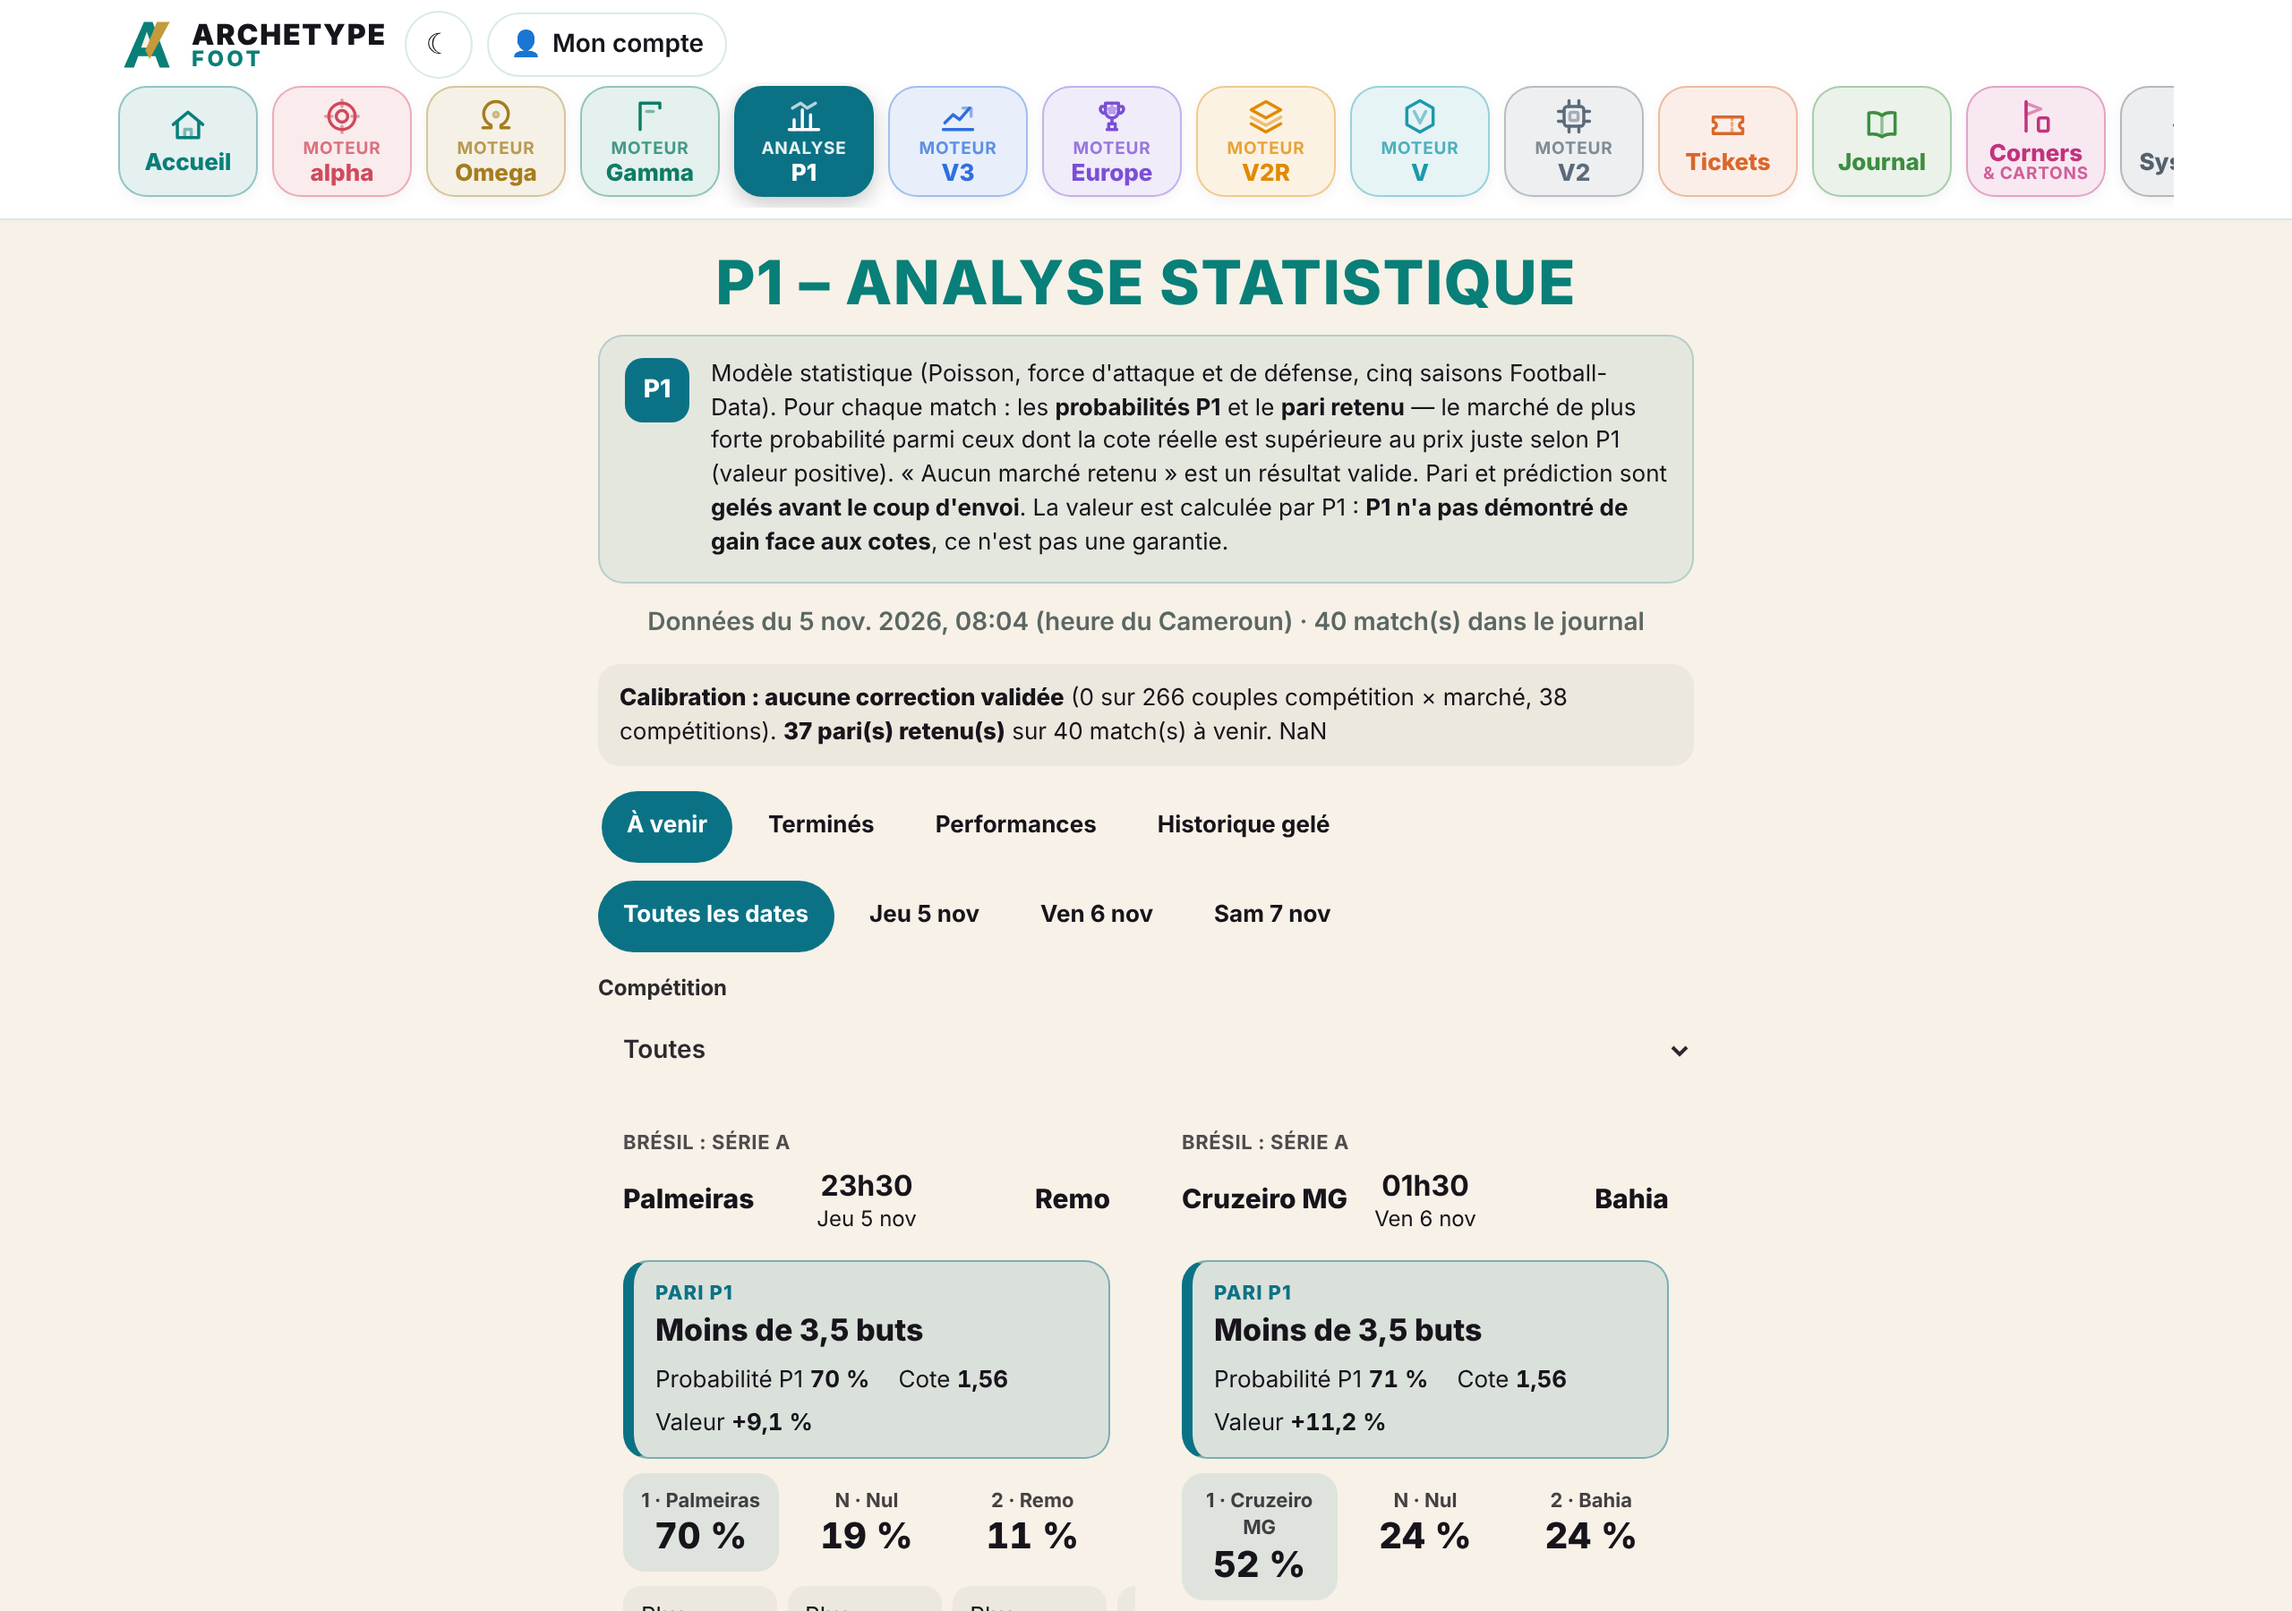
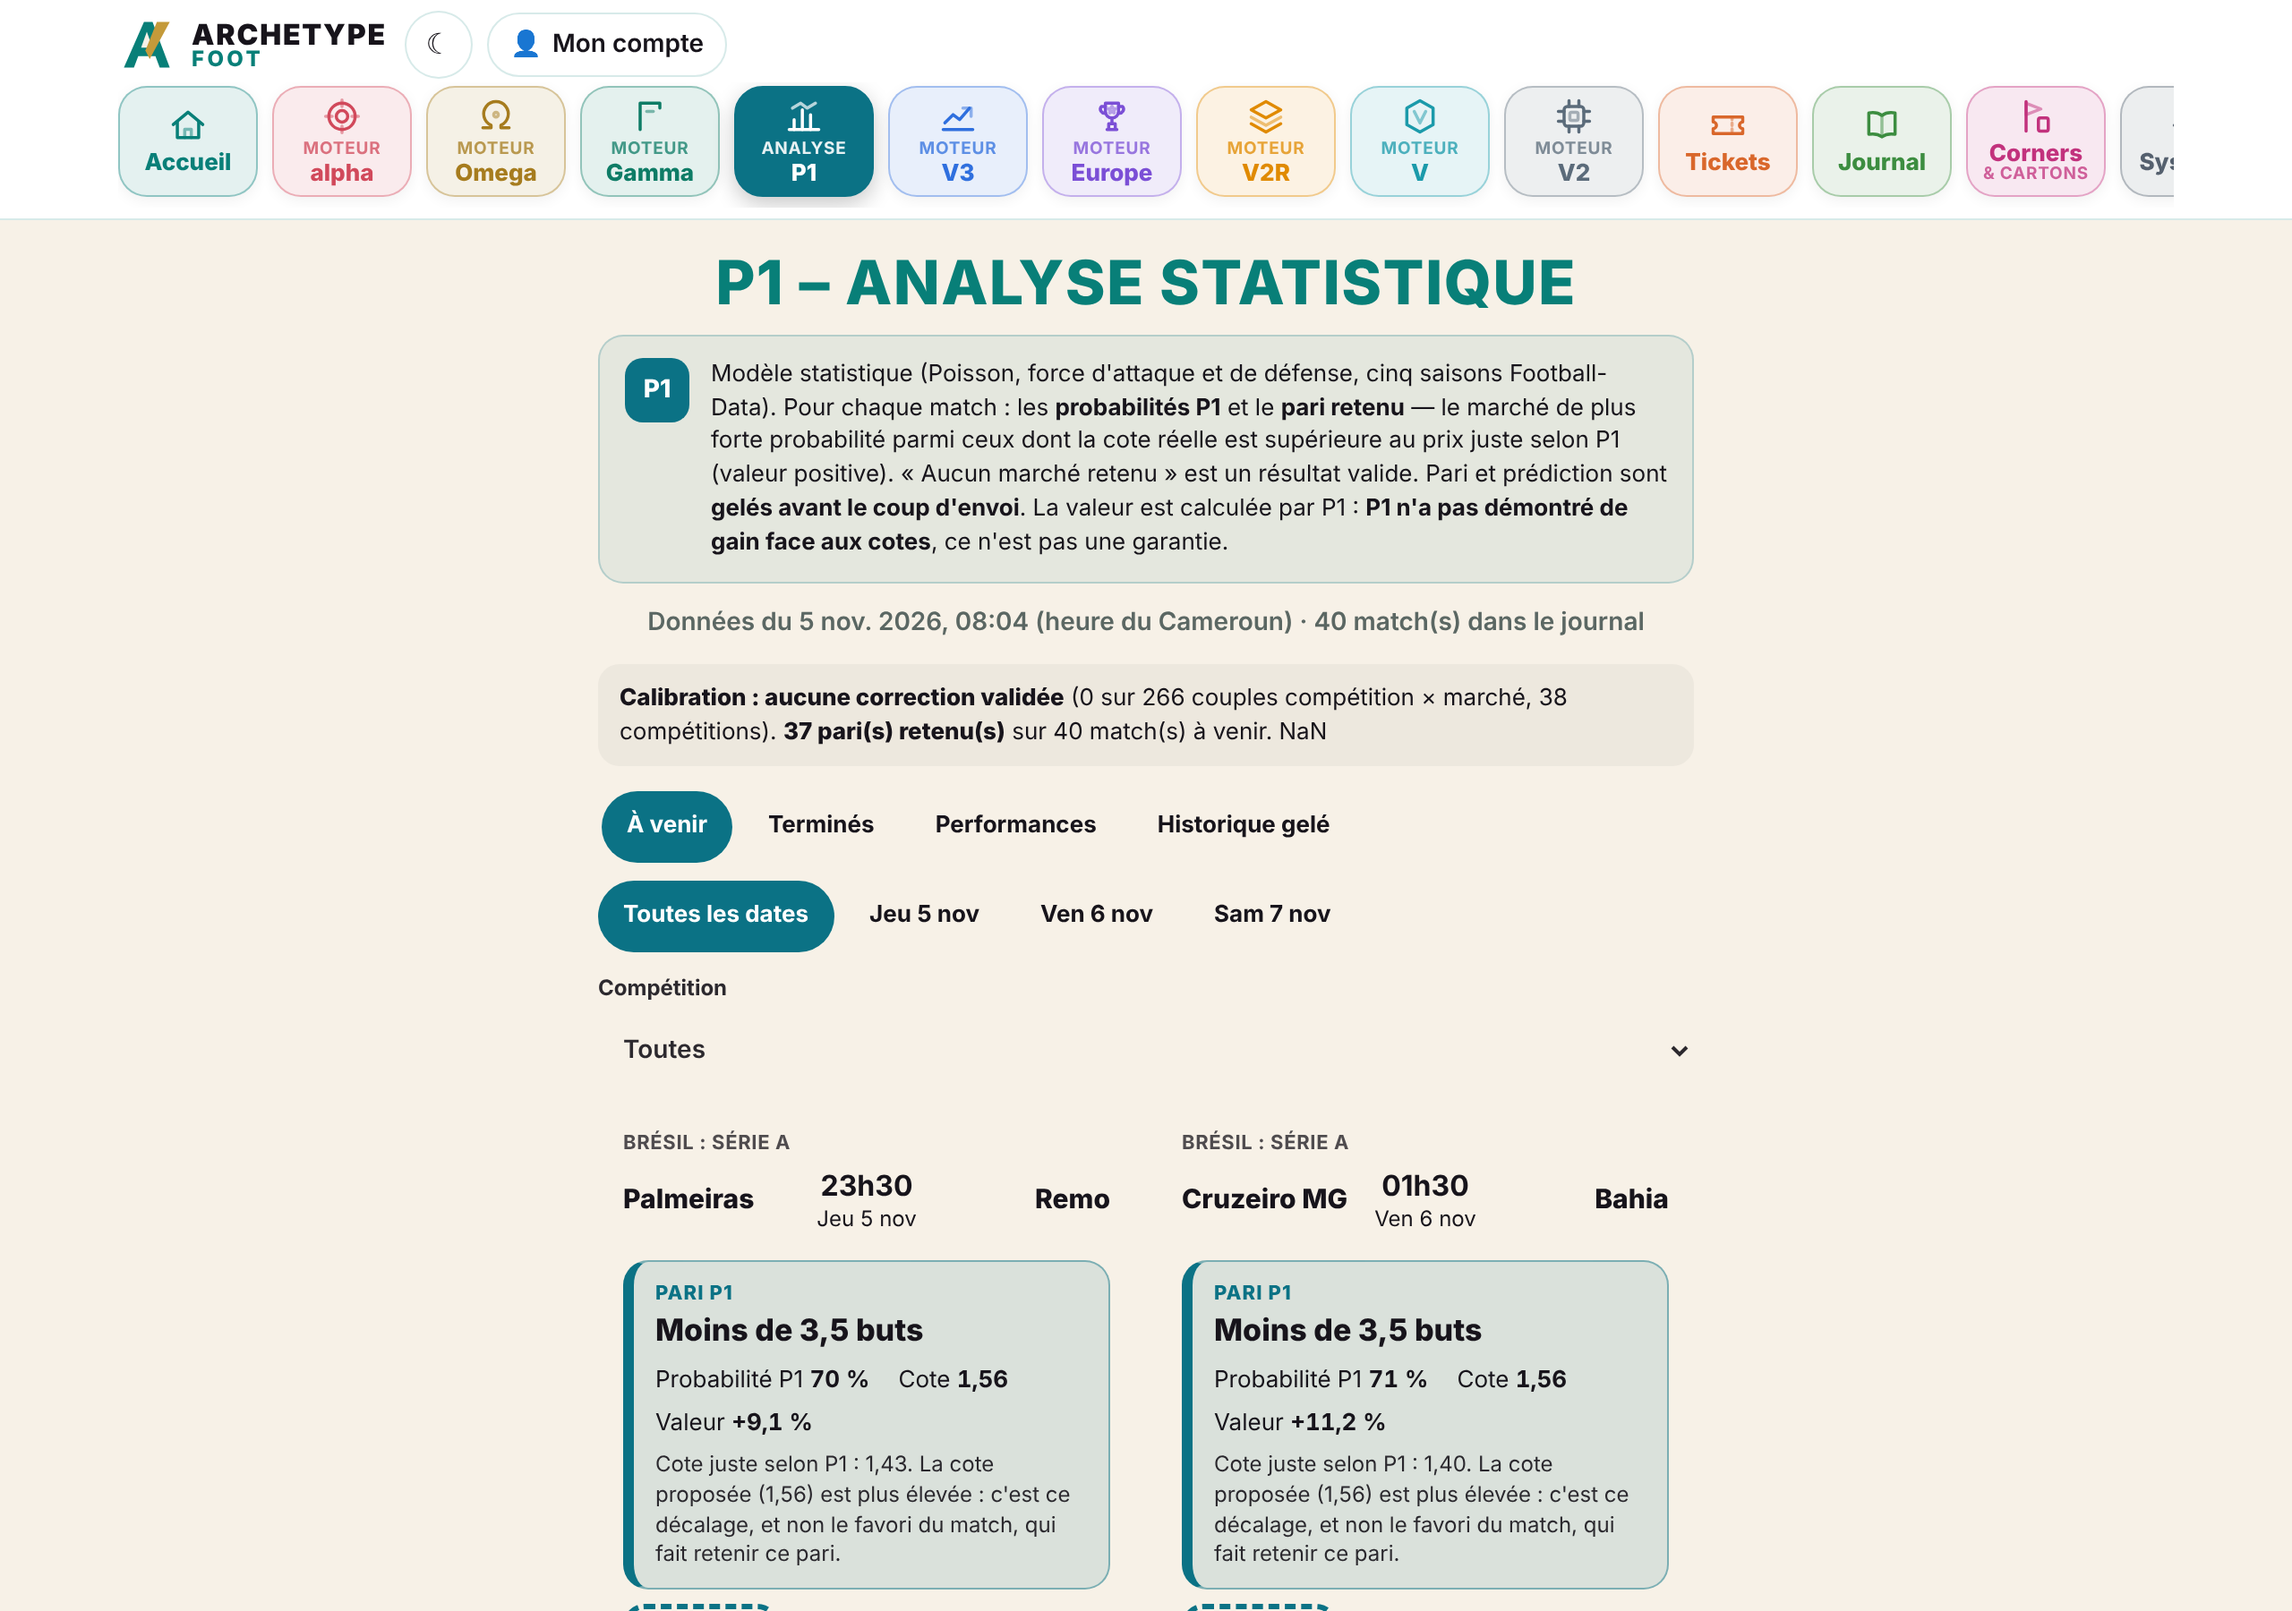
Page P1: le favori n'est plus confondu avec le pari retenu (cases du pari mises en avant, favori marqué à part, cote juste expliquée)
Claude-Session: https://claude.ai/code/session_01JXqGGBJsrebvQKreitbZJp

Changed region(s): [[0.25, 0.9022, 0.75, 1.0]]

diff --git a/archetype_p1.js b/archetype_p1.js
@@ -55,7 +55,7 @@ function blocPari(m, ev) {
   const r = pa.retenu;
   if (!r) return `<div class="p1-pari p1-pari-aucun"><small>PARI P1</small><b>Aucun marché retenu</b><span>${pa.cotes_disponibles ? "Aucun marché n'a de valeur positive selon P1 face aux cotes (" + e(pa.cotes_disponibles) + " marchés examinés)." : "Cotes indisponibles pour ce match : aucun pari évalué."}</span></div>`;
   const res = ev && ev.pari ? (ev.pari.gagne ? `<em class="p1-ok">✓ Gagné (${signe(ev.pari.gain)} de la mise)</em>` : `<em class="p1-ko">✗ Perdu (−100 % de la mise)</em>`) : "";
-  return `<div class="p1-pari"><small>PARI P1</small><b>${e(r.libelle)}</b><div class="p1-pari-chiffres"><span>Probabilité P1 <strong>${pct0(r.p1)}</strong></span><span>Cote <strong>${fr(r.cote)}</strong></span><span>Valeur <strong>${signe(r.valeur)}</strong></span></div>${res}</div>`;
+  return `<div class="p1-pari"><small>PARI P1</small><b>${e(r.libelle)}</b><div class="p1-pari-chiffres"><span>Probabilité P1 <strong>${pct0(r.p1)}</strong></span><span>Cote <strong>${fr(r.cote)}</strong></span><span>Valeur <strong>${signe(r.valeur)}</strong></span></div><p class="p1-pourquoi">Cote juste selon P1 : ${fr(1 / r.p1)}. La cote proposée (${fr(r.cote)}) est plus élevée : c'est ce décalage, et non le favori du match, qui fait retenir ce pari.</p>${res}</div>`;
 }
 function blocMarches(m) {
   const L = (m.pari && m.pari.marches) || []; if (!L.length) return "";
@@ -68,7 +68,10 @@ function carte(m) {
   if (!complet(m)) return `<article class="p1-carte"><div class="p1-tete"><p class="p1-comp-nom">${e(nomComp(m))}</p><div class="p1-equipes"><span class="p1-eq">${e(m.domicile)}</span><span class="p1-heure">${e(h.heure)}</span><span class="p1-eq p1-ext">${e(m.exterieur)}</span></div></div><p class="p1-vide">Prédiction P1 indisponible pour ce match.</p></article>`;
   const p = m.p1_original, fav = ["dom", "nul", "ext"].reduce((a, k) => (p[k] > p[a] ? k : a), "dom");
   const milieu = fin ? `<span class="p1-score">${e(m.resultat.buts_dom)} – ${e(m.resultat.buts_ext)}</span>` : `<span class="p1-heure"><strong>${e(h.heure)}</strong>${e(h.date)}</span>`;
-  const trio = ["dom", "nul", "ext"].map((k) => `<div class="${k === fav ? "p1-fav" : ""} ${ev && ev.original.issue_1x2 === k ? "p1-reel" : ""}"><small>${k === "dom" ? "1 · " + e(m.domicile) : k === "nul" ? "N · Nul" : "2 · " + e(m.exterieur)}</small><b>${pct0(p[k])}</b></div>`).join("");
+  const CIBLE = { "1": ["dom"], "N": ["nul"], "2": ["ext"], "1N": ["dom", "nul"], "N2": ["nul", "ext"], "12": ["dom", "ext"] };
+  const cle = m.pari && m.pari.retenu ? m.pari.retenu.cle : null, cibles = (cle && CIBLE[cle]) || [];
+  const trio = ["dom", "nul", "ext"].map((k) => { const pari = cibles.includes(k), f = k === fav; const tag = pari ? `<i class="p1-tag">${f ? "Pari P1 · favori" : "Pari P1"}</i>` : f ? `<i class="p1-tag p1-tag-fav">Favori P1</i>` : "";
+    return `<div class="${pari ? "p1-fav" : f ? "p1-favori" : ""} ${ev && ev.original.issue_1x2 === k ? "p1-reel" : ""}">${tag}<small>${k === "dom" ? "1 · " + e(m.domicile) : k === "nul" ? "N · Nul" : "2 · " + e(m.exterieur)}</small><b>${pct0(p[k])}</b></div>`; }).join("");
   const marches = P1_MARCHES.map(([k, nom]) => {
     const r = ev ? (ev.realise[k] ? '<span class="p1-ok"> ✓</span>' : '<span class="p1-ko"> ✗</span>') : "";
     return `<div><span>${nom}</span><b>${pct0(p[k])}${r}</b></div>`;

diff --git a/af-p1.css b/af-p1.css
@@ -62,3 +62,9 @@
 .p1-ligne-ret{background:rgba(11,114,133,.14);font-weight:800}
 .p1-h{margin:16px 4px 4px;font-size:15px}
 .theme-nuit .p1-pari{background:rgba(79,209,197,.10);border-color:rgba(79,209,197,.4);border-left-color:#4FD1C5}.theme-nuit .p1-pari small{color:#4FD1C5}
+.p1-1n2 .p1-favori{border-style:dashed;border-color:#0B7285}
+.p1-1n2 .p1-fav{background:rgba(11,114,133,.18);border:2px solid #0B7285}
+.p1-tag{display:block;margin-bottom:2px;font:800 10px/1.2 system-ui,sans-serif;font-style:normal;letter-spacing:.03em;text-transform:uppercase;color:#0B7285}
+.p1-tag-fav{opacity:.8}
+.p1-pourquoi{margin:6px 0 0;font-size:12px;line-height:1.4;opacity:.9}
+.theme-nuit .p1-tag{color:#4FD1C5}.theme-nuit .p1-1n2 .p1-favori{border-color:#4FD1C5}
